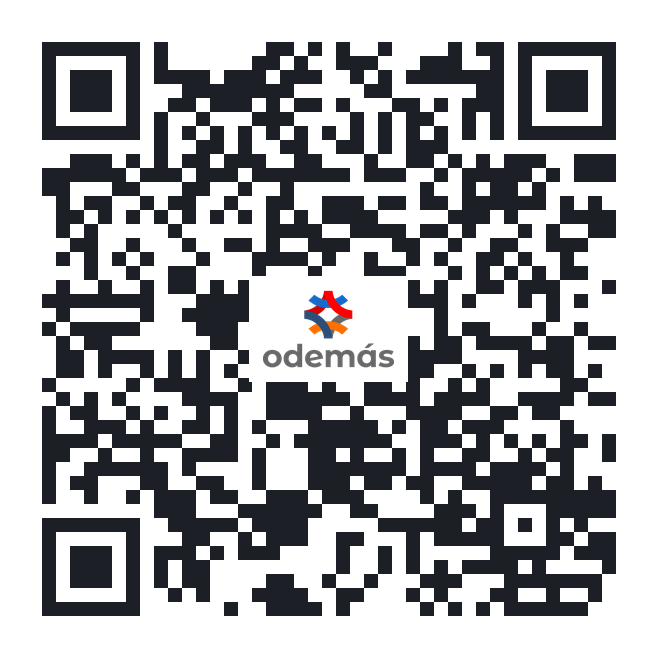
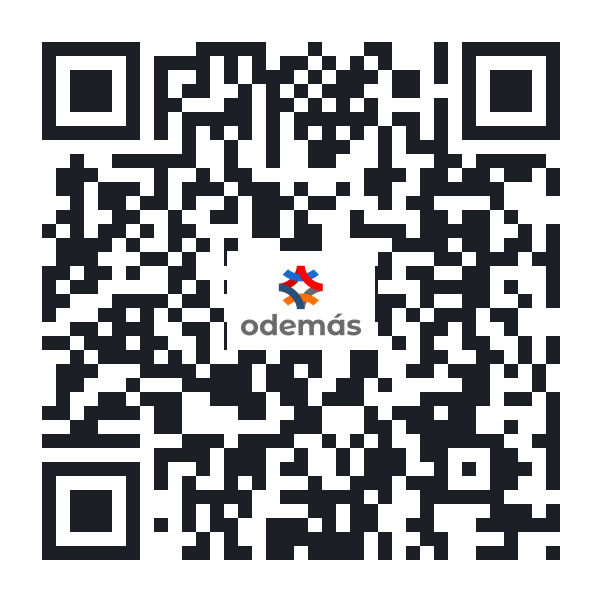
Nueva dirección: /showroom en vez de /showroom-hes1217
El repo se renombró a "showroom", así que el link queda más corto y
sin el número de tienda.

Ojo: GitHub NO redirige la dirección vieja, se quedó en 404. El QR se
regeneró apuntando al nuevo link; cualquiera impreso antes hay que
reemplazarlo.

diff --git a/sw.js b/sw.js
@@ -11,7 +11,7 @@
       SUBE ESTE NÚMERO. Si no, las tablets siguen mostrando
       la versión vieja porque la tienen guardada.
    ============================================================ */
-const VERSION = 'showroom-v11';
+const VERSION = 'showroom-v12';
 
 const ARCHIVOS = [
   './',

diff --git a/README.md b/README.md
@@ -1,7 +1,11 @@
 # Catálogo — Odemás Angelópolis (HES 1217)
 
-**En línea:** <https://angeljesus8-blip.github.io/showroom-hes1217/>
+**En línea:** <https://angeljesus8-blip.github.io/showroom/>
 · QR para abrirlo en las tablets: `QR_showroom.png`
+
+> El repo se llamaba `showroom-hes1217` y se renombró a `showroom` el 3-ago-2026.
+> La dirección vieja quedó en **404, GitHub no la redirige**: cualquier QR impreso
+> antes de esa fecha hay que reemplazarlo por el nuevo.
 
 Catálogo para las **tablets de piso**: el cliente ve el equipo, le cambia el color,
 compara memorias y ve el precio, aunque no haya pieza en exhibición.
